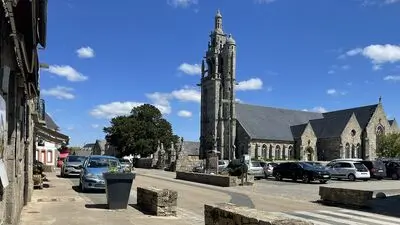
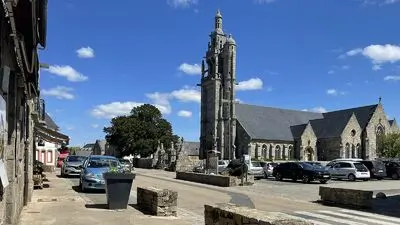
add more webp pictures

diff --git a/_posts/2023-07-11-actualite03-bannalec.md b/_posts/2023-07-11-actualite03-bannalec.md
@@ -8,9 +8,9 @@ categories:
   - Actualités
 author_profile: false
 header:
-  teaser: /assets/images/thumbnails/actualites/actu03.jpg
+  teaser: /assets/images/thumbnails/actualites/actu03.webp
   show_overlay_excerpt: false
-  overlay_image: /assets/images/actualites/actu03.jpg
+  overlay_image: /assets/images/actualites/actu03.webp
   overlay_filter: 0.2
 ---
 

diff --git a/_posts/2023-07-12-actualite04-vierzon.md b/_posts/2023-07-12-actualite04-vierzon.md
@@ -8,9 +8,9 @@ categories:
   - Actualités
 author_profile: false
 header:
-  teaser: /assets/images/thumbnails/actualites/actu04.jpg
+  teaser: /assets/images/thumbnails/actualites/actu04.webp
   show_overlay_excerpt: false
-  overlay_image: /assets/images/actualites/actu04.jpg
+  overlay_image: /assets/images/actualites/actu04.webp
   overlay_filter: 0.2
 ---
 
